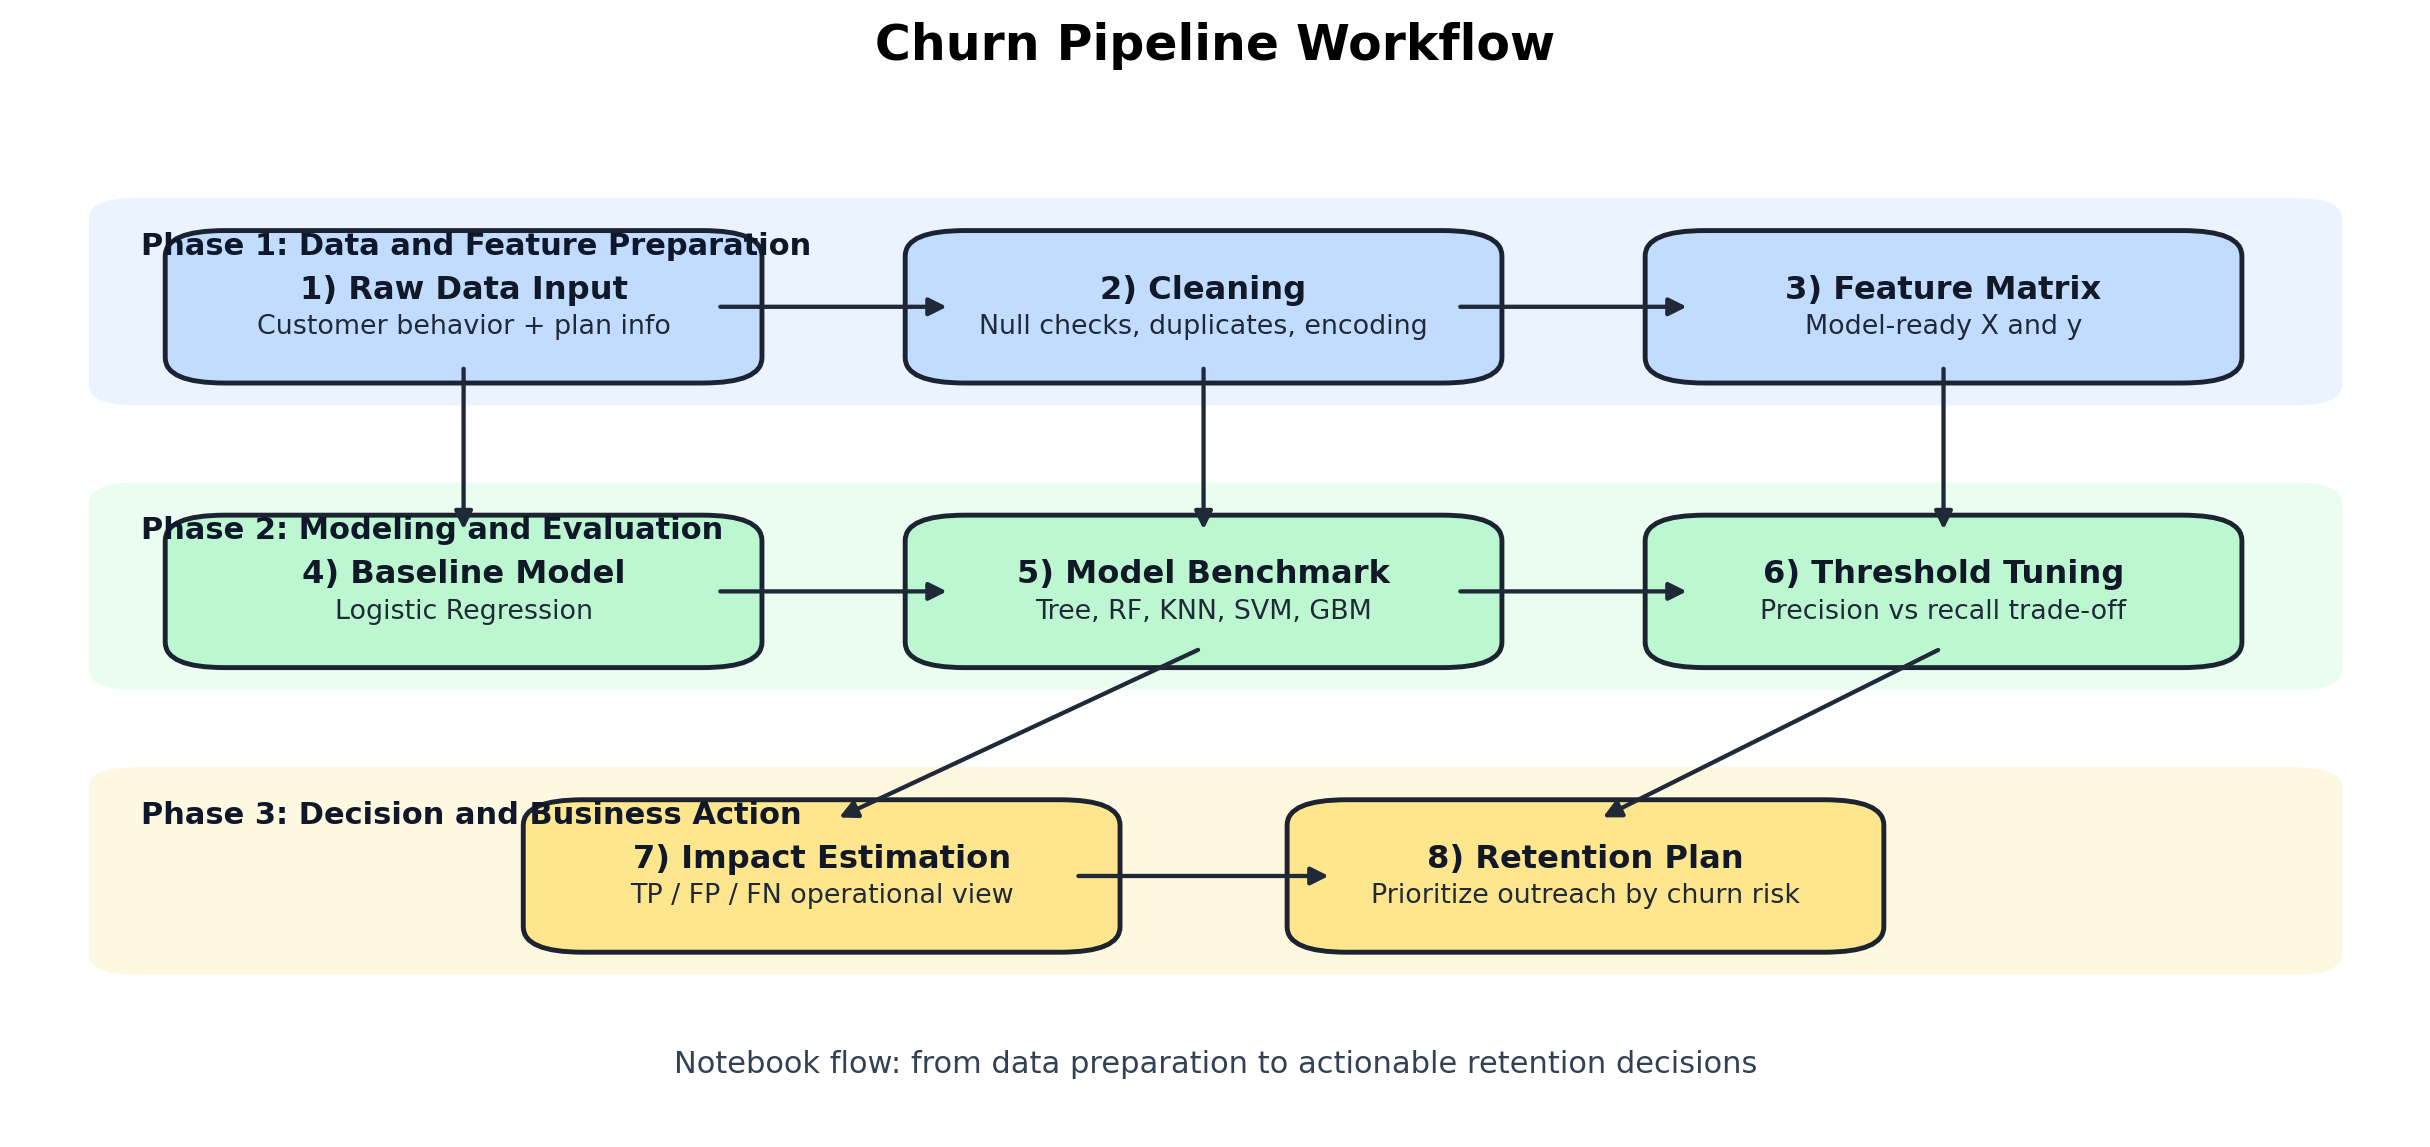
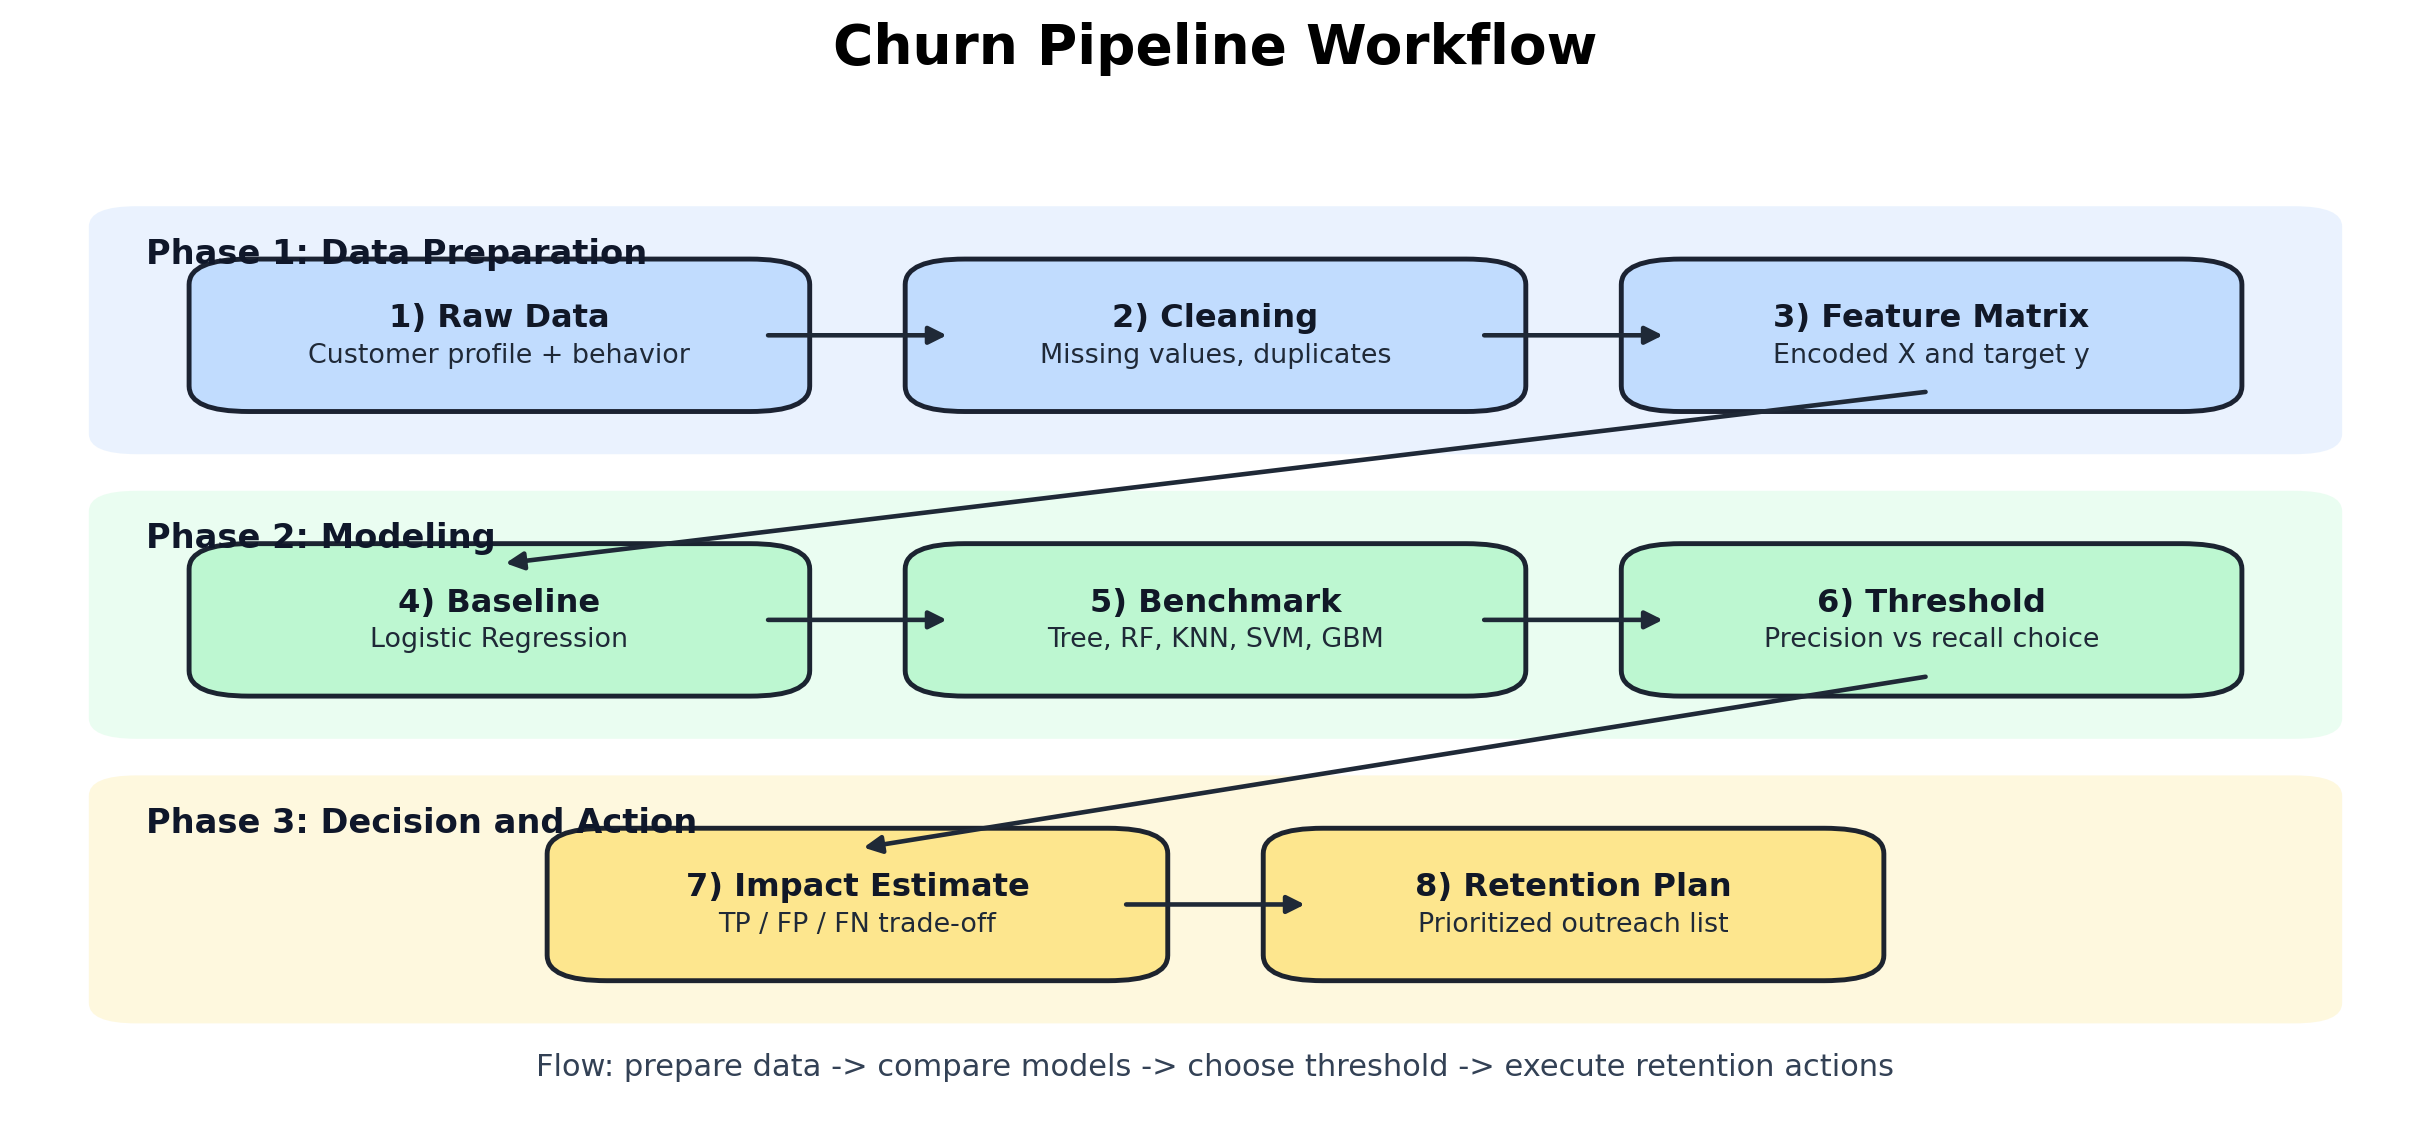
Refine workflow diagram layout for clearer visual flow

Changed region(s): [[0.0309, 0.3974, 0.9877, 0.9476], [0.0617, 0.1834, 0.9259, 0.3974], [0.3395, 0.0, 0.679, 0.0611]]

diff --git a/scripts/generate_readme_visuals.py b/scripts/generate_readme_visuals.py
@@ -146,44 +146,49 @@ def build_workflow_diagram(output_dir: Path) -> None:
     ax.set_ylim(0, 1)
     ax.axis("off")
 
-    # Phase bands
+    # Phase bands with clear labels.
     bands = [
-        (0.04, 0.72, 0.92, 0.18, "#dbeafe", "Phase 1: Data and Feature Preparation"),
-        (0.04, 0.44, 0.92, 0.18, "#dcfce7", "Phase 2: Modeling and Evaluation"),
-        (0.04, 0.16, 0.92, 0.18, "#fef3c7", "Phase 3: Decision and Business Action"),
+        (0.04, 0.67, 0.92, 0.22, "#dbeafe", "Phase 1: Data Preparation"),
+        (0.04, 0.39, 0.92, 0.22, "#dcfce7", "Phase 2: Modeling"),
+        (0.04, 0.11, 0.92, 0.22, "#fef3c7", "Phase 3: Decision and Action"),
     ]
     for x, y, w, h, color, label in bands:
-        band = FancyBboxPatch((x, y), w, h, boxstyle="round,pad=0.012,rounding_size=0.02", linewidth=0, facecolor=color, alpha=0.55)
+        band = FancyBboxPatch(
+            (x, y),
+            w,
+            h,
+            boxstyle="round,pad=0.012,rounding_size=0.02",
+            linewidth=0,
+            facecolor=color,
+            alpha=0.58,
+        )
         ax.add_patch(band)
-        ax.text(x + 0.01, y + h - 0.035, label, ha="left", va="center", fontsize=10, weight="bold", color="#0f172a")
+        ax.text(x + 0.012, y + h - 0.035, label, ha="left", va="center", fontsize=11, weight="bold", color="#0f172a")
 
-    # Steps
-    box_w, box_h = 0.21, 0.11
+    # Steps: simple snake layout with fewer connectors.
+    box_w, box_h = 0.22, 0.11
     steps = [
-        (0.08, 0.75, "1) Raw Data Input", "Customer behavior + plan info", "#bfdbfe"),
-        (0.39, 0.75, "2) Cleaning", "Null checks, duplicates, encoding", "#bfdbfe"),
-        (0.70, 0.75, "3) Feature Matrix", "Model-ready X and y", "#bfdbfe"),
-        (0.08, 0.47, "4) Baseline Model", "Logistic Regression", "#bbf7d0"),
-        (0.39, 0.47, "5) Model Benchmark", "Tree, RF, KNN, SVM, GBM", "#bbf7d0"),
-        (0.70, 0.47, "6) Threshold Tuning", "Precision vs recall trade-off", "#bbf7d0"),
-        (0.23, 0.19, "7) Impact Estimation", "TP / FP / FN operational view", "#fde68a"),
-        (0.55, 0.19, "8) Retention Plan", "Prioritize outreach by churn risk", "#fde68a"),
+        (0.09, 0.72, "1) Raw Data", "Customer profile + behavior", "#bfdbfe"),
+        (0.39, 0.72, "2) Cleaning", "Missing values, duplicates", "#bfdbfe"),
+        (0.69, 0.72, "3) Feature Matrix", "Encoded X and target y", "#bfdbfe"),
+        (0.09, 0.44, "4) Baseline", "Logistic Regression", "#bbf7d0"),
+        (0.39, 0.44, "5) Benchmark", "Tree, RF, KNN, SVM, GBM", "#bbf7d0"),
+        (0.69, 0.44, "6) Threshold", "Precision vs recall choice", "#bbf7d0"),
+        (0.24, 0.16, "7) Impact Estimate", "TP / FP / FN trade-off", "#fde68a"),
+        (0.54, 0.16, "8) Retention Plan", "Prioritized outreach list", "#fde68a"),
     ]
     for x, y, title, subtitle, color in steps:
         _draw_step(ax, x, y, box_w, box_h, title, subtitle, color)
 
-    # Arrows
+    # Clean, non-crossing arrows.
     arrows = [
-        ((0.29, 0.805), (0.39, 0.805)),
-        ((0.60, 0.805), (0.70, 0.805)),
-        ((0.185, 0.75), (0.185, 0.58)),
-        ((0.495, 0.75), (0.495, 0.58)),
-        ((0.805, 0.75), (0.805, 0.58)),
-        ((0.29, 0.525), (0.39, 0.525)),
-        ((0.60, 0.525), (0.70, 0.525)),
-        ((0.805, 0.47), (0.66, 0.30)),
-        ((0.495, 0.47), (0.34, 0.30)),
-        ((0.44, 0.245), (0.55, 0.245)),
+        ((0.31, 0.775), (0.39, 0.775)),  # 1 -> 2
+        ((0.61, 0.775), (0.69, 0.775)),  # 2 -> 3
+        ((0.80, 0.72), (0.20, 0.55)),    # 3 -> 4 (phase transition)
+        ((0.31, 0.495), (0.39, 0.495)),  # 4 -> 5
+        ((0.61, 0.495), (0.69, 0.495)),  # 5 -> 6
+        ((0.80, 0.44), (0.35, 0.27)),    # 6 -> 7 (decision transition)
+        ((0.46, 0.215), (0.54, 0.215)),  # 7 -> 8
     ]
     for start, end in arrows:
         arrow = FancyArrowPatch(
@@ -191,7 +196,7 @@ def build_workflow_diagram(output_dir: Path) -> None:
             posB=end,
             arrowstyle="-|>",
             mutation_scale=12,
-            linewidth=1.4,
+            linewidth=1.5,
             color="#1f2937",
             connectionstyle="arc3,rad=0.0",
         )
@@ -199,14 +204,14 @@ def build_workflow_diagram(output_dir: Path) -> None:
 
     ax.text(
         0.5,
-        0.06,
-        "Notebook flow: from data preparation to actionable retention decisions",
+        0.055,
+        "Flow: prepare data -> compare models -> choose threshold -> execute retention actions",
         ha="center",
         va="center",
         fontsize=10,
         color="#334155",
     )
-    ax.set_title("Churn Pipeline Workflow", fontsize=16, weight="bold", pad=16)
+    ax.set_title("Churn Pipeline Workflow", fontsize=18, weight="bold", pad=14)
     fig.savefig(output_dir / "workflow_pipeline_visual.png", bbox_inches="tight")
     plt.close(fig)
 
